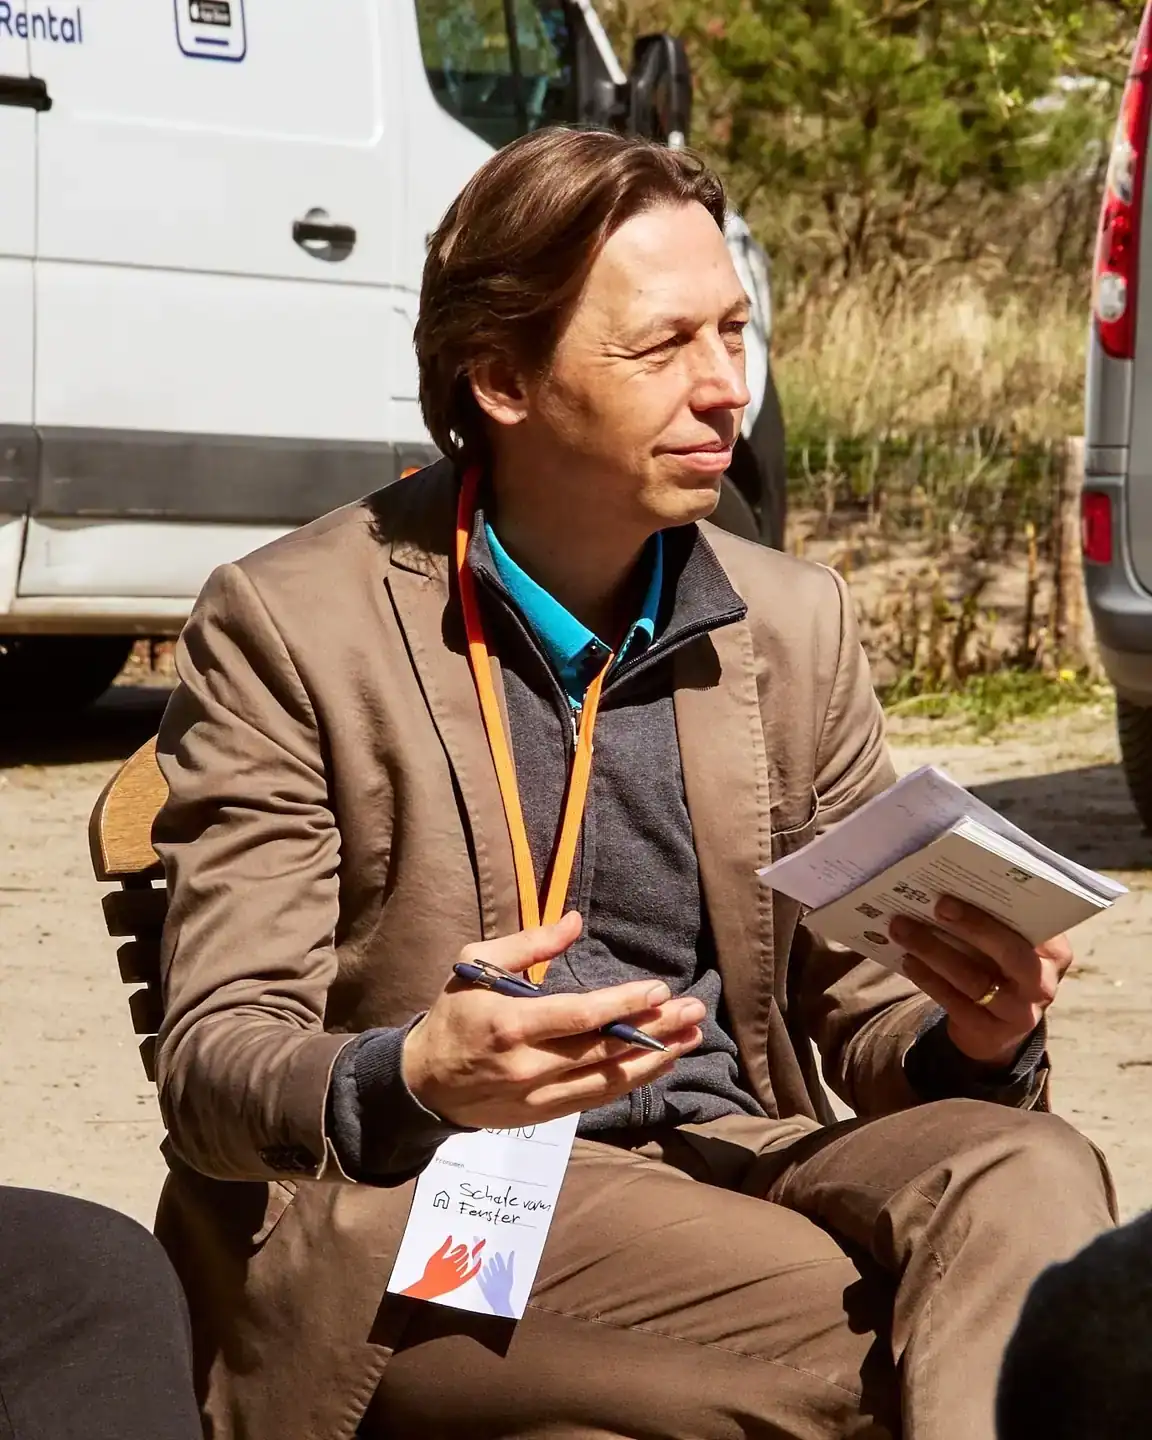
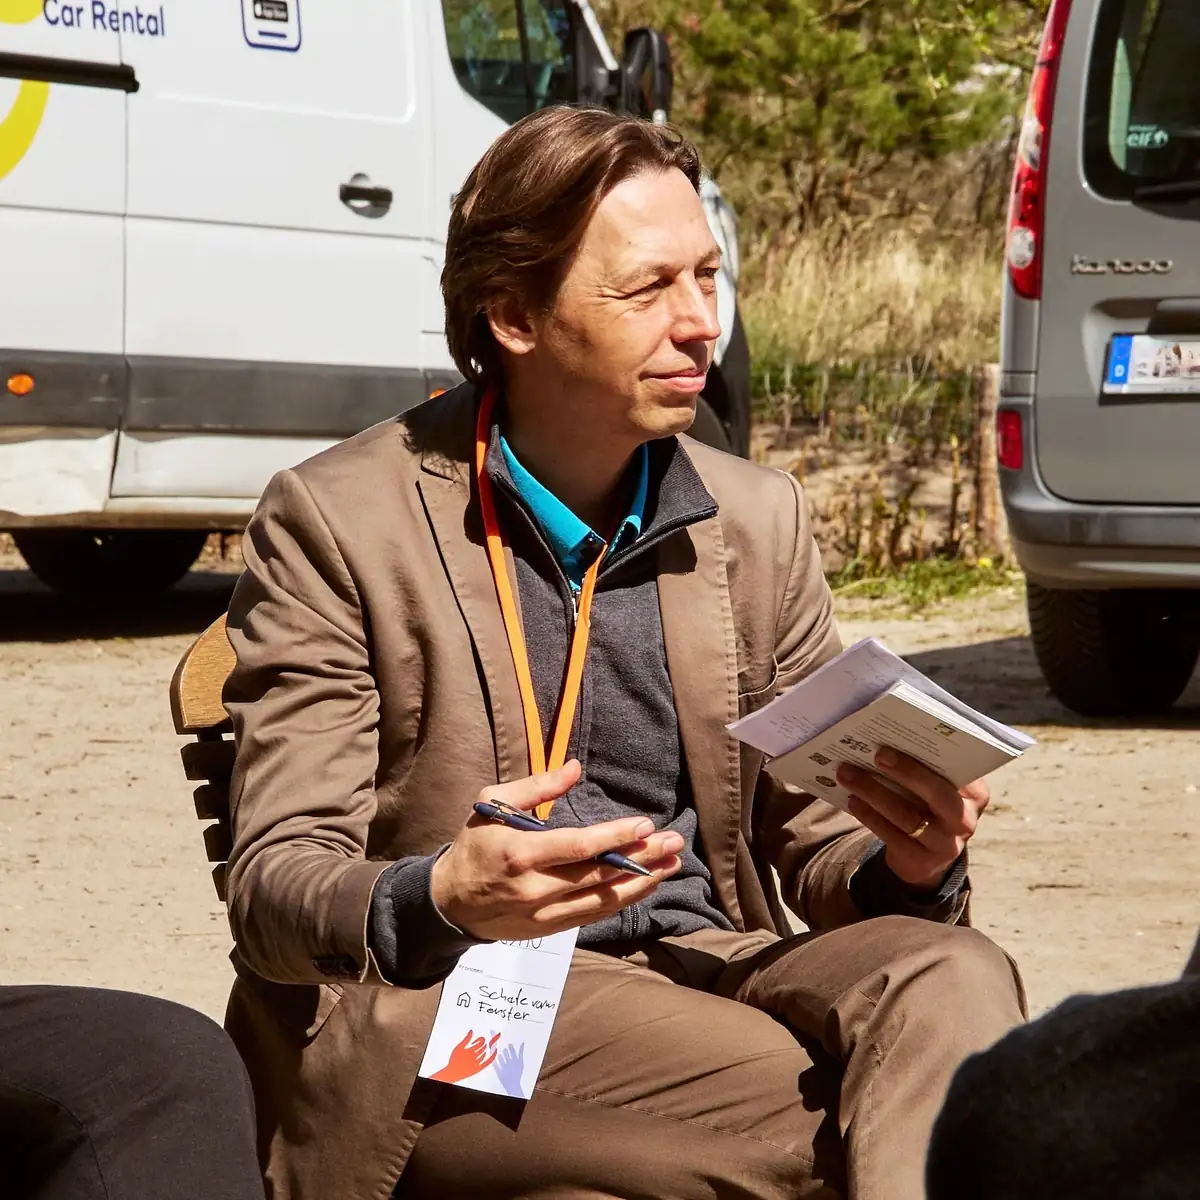
Ueber uns: weiterer Ausschnitt beim Gruenderfoto, Personenfoto im 7:5-Querformat ohne Rand (issue 164)

diff --git a/app/[lang]/ueber-uns/page.module.css b/app/[lang]/ueber-uns/page.module.css
@@ -110,6 +110,12 @@
 section.quoteBand {
   align-items: stretch;
   aspect-ratio: auto;
+  /* Phone (issue 164): the square photograph is shown whole, at the width of the
+     phone, and the quote stands on the dark ground below it. `cover` on the
+     tall box cut a narrow slice out of it and blew it up. */
+  background-color: var(--color-neutral-ink);
+  background-position: 0 0, 0 0, 50% 0;
+  background-size: 100% 100%, 100% 100%, 100% auto;
   flex-direction: column;
   justify-content: flex-end;
 }
@@ -117,22 +123,26 @@ section.quoteBand {
 section.quoteBand::before {
   content: "";
   flex: none;
-  height: 110vw;
+  height: 100vw;
 }
 
 @media (min-width: 40rem) {
+  section.quoteBand {
+    background-position: var(--photo-focal, 50% 40%);
+    background-size: cover;
+  }
+
   section.quoteBand::before {
     height: 60vw;
   }
 }
 
 @media (min-width: 64rem) {
-  /* Width-bound from here: the portrait is far taller than the band, and its
-     inventory focal point (`y` 45 %) is the 4:5 box's. The face sits at the
-     upper fifth of the original, so the band's window is set there. */
+  /* Width-bound from here: the square photograph is taller than the band, so
+     the band's window is set on the upper fifth, where the face sits. */
   section.quoteBand {
-    background-position: 48% 15%;
-    min-height: min(85vh, 680px);
+    background-position: 48% 20%;
+    min-height: min(90vh, 60vw);
   }
 
   section.quoteBand::before {
@@ -153,13 +163,21 @@ section.quoteBand::before {
   width: 100%;
 }
 
+/* issue 164: the photograph meets the section's top and bottom edge, so no lime
+   strip stands above and below it; the text carries the section's block
+   padding itself where it stacks under the photograph. */
+section.personSection {
+  padding-block: 0;
+}
+
 .profile {
-  gap: var(--space-6);
+  gap: 0;
 }
 
 .profile > div {
   margin-inline: auto;
   max-width: calc(var(--measure-page) + 2 * var(--gutter));
+  padding-block: var(--section-padding-block);
   padding-inline: var(--gutter);
   width: 100%;
 }
@@ -174,6 +192,7 @@ section.quoteBand::before {
 
   .profile > div {
     margin-inline: 0;
+    padding-block: var(--space-6);
     padding-inline: 0 max(var(--gutter), calc((100vw - var(--measure-page)) / 2));
   }
 }

diff --git a/src/components/person-profile/person-profile.tsx b/src/components/person-profile/person-profile.tsx
@@ -1,4 +1,4 @@
-import { MediaFrame } from "../media-frame/media-frame";
+import { MediaFrame, type MediaRatio } from "../media-frame/media-frame";
 
 import type { DataState } from "../data-state";
 import type { ReactNode } from "react";
@@ -49,6 +49,8 @@ export interface PersonProfileProps {
    */
   readonly headingId?: string;
   readonly kicker?: string;
+  /** The portrait's box; the 4:5 `portrait` where nothing else is asked for. */
+  readonly portraitRatio?: MediaRatio;
   readonly className?: string;
 }
 
@@ -82,6 +84,7 @@ export function PersonProfile({
   textOnly = false,
   headingId,
   kicker,
+  portraitRatio = "portrait",
   className,
 }: PersonProfileProps) {
   return (
@@ -92,7 +95,7 @@ export function PersonProfile({
         credit={portraitCredit}
         locale={locale}
         notDepicting={portraitNotDepicting}
-        ratio="portrait"
+        ratio={portraitRatio}
         src={portraitSrc}
         state={portraitState}
       />

diff --git a/app/[lang]/ueber-uns/page.tsx b/app/[lang]/ueber-uns/page.tsx
@@ -391,7 +391,8 @@ export default async function Page({
         </SectionShell>
 
         {/* 6 — who is behind it (D7): the person the artifact names, with the
-            cleared 4:5 portrait. The portrait runs to the viewport edge. */}
+            cleared photograph in the 7:5 `feature` box (issue 164). The photograph
+            runs to the viewport edge and to the section's top and bottom. */}
         {founder ? (
           <SectionShell
             className={styles.personSection}
@@ -415,6 +416,7 @@ export default async function Page({
                       portraitAlt={portrait?.alt ?? founder.name}
                       portraitCredit={imageCredit(portrait, locale)}
                       portraitNotDepicting={portrait?.notDepicting}
+                      portraitRatio="feature"
                       portraitSrc={portrait?.src}
                       role={founder.role}
                     />

diff --git a/content/pages/ueber-uns/en.md b/content/pages/ueber-uns/en.md
@@ -80,14 +80,14 @@ images:
     wide_height: 420
   - id: ueber-uns-founder-portrait
     slot: ueber-uns-1-origin
-    ratio: portrait
+    ratio: square
     provenance: real
     source: >-
       @schafe-vorm-fenster/people@0.3.6#jan-henrik-hempel/assets/2026-04-otcamp-neustrelitz-outdoor-session.jpeg
       — `license: free use, credit advised`, `credit: openTransfer.de`, Fotograf: openTransfer.de
       (Stiftung Bürgermut), openTransfer CAMP Zusammenhalt, Neustrelitz, April 2026, 1717×1717.
       `press_clearance: cleared` steht im Personenprofil für alle vierzehn Assets. Binärdatei liegt
-      im go-to-market-os-Repository, das npm-Paket liefert nur den .asset.md-Deskriptor.
+      im go-to-market-os-Repository, das npm-Paket liefert nur den .asset.md-Deskriptor. Rendition seit #164: die ganze Quelle als Quadrat, 1200×1200 (zuvor ein 4:5-Ausschnitt, hochskaliert).
     alt: >-
       Jan-Henrik Hempel sitting outdoors in a circle of chairs, a programme booklet in one hand, a
       pen in the other, two vans parked behind him.
@@ -100,11 +100,11 @@ images:
       "y": 45
     status: real
     file: /images/real/ueber-uns-founder-portrait.webp
-    width: 1152
-    height: 1440
+    width: 1200
+    height: 1200
   - id: ueber-uns-team-jan-henrik-hempel
     slot: ueber-uns-5-team
-    ratio: portrait
+    ratio: feature
     provenance: real
     source: >-
       @schafe-vorm-fenster/people@0.3.6#jan-henrik-hempel/assets/2021-workshop-quilow-portrait.jpeg
@@ -118,8 +118,8 @@ images:
       "y": 38
     status: real
     file: /images/real/ueber-uns-team-jan-henrik-hempel.webp
-    width: 1152
-    height: 1440
+    width: 1018
+    height: 727
   - id: ueber-uns-team-christian-sauer
     slot: ueber-uns-5-team
     ratio: portrait

diff --git a/content/pages/ueber-uns/de.md b/content/pages/ueber-uns/de.md
@@ -78,14 +78,14 @@ images:
     wide_height: 420
   - id: ueber-uns-founder-portrait
     slot: ueber-uns-1-origin
-    ratio: portrait
+    ratio: square
     provenance: real
     source: >-
       @schafe-vorm-fenster/people@0.3.6#jan-henrik-hempel/assets/2026-04-otcamp-neustrelitz-outdoor-session.jpeg
       — `license: free use, credit advised`, `credit: openTransfer.de`, Fotograf: openTransfer.de
       (Stiftung Bürgermut), openTransfer CAMP Zusammenhalt, Neustrelitz, April 2026, 1717×1717.
       `press_clearance: cleared` steht im Personenprofil für alle vierzehn Assets. Binärdatei liegt
-      im go-to-market-os-Repository, das npm-Paket liefert nur den .asset.md-Deskriptor.
+      im go-to-market-os-Repository, das npm-Paket liefert nur den .asset.md-Deskriptor. Rendition seit #164: die ganze Quelle als Quadrat, 1200×1200 (zuvor ein 4:5-Ausschnitt, hochskaliert).
     alt: >-
       Jan-Henrik Hempel sitzt im Freien in einem Stuhlkreis, Programmheft und Stift in den Händen,
       hinter ihm zwei Transporter.
@@ -98,11 +98,11 @@ images:
       "y": 45
     status: real
     file: /images/real/ueber-uns-founder-portrait.webp
-    width: 1152
-    height: 1440
+    width: 1200
+    height: 1200
   - id: ueber-uns-team-jan-henrik-hempel
     slot: ueber-uns-5-team
-    ratio: portrait
+    ratio: feature
     provenance: real
     source: >-
       @schafe-vorm-fenster/people@0.3.6#jan-henrik-hempel/assets/2021-workshop-quilow-portrait.jpeg
@@ -116,8 +116,8 @@ images:
       "y": 38
     status: real
     file: /images/real/ueber-uns-team-jan-henrik-hempel.webp
-    width: 1152
-    height: 1440
+    width: 1018
+    height: 727
   - id: ueber-uns-team-christian-sauer
     slot: ueber-uns-5-team
     ratio: portrait
